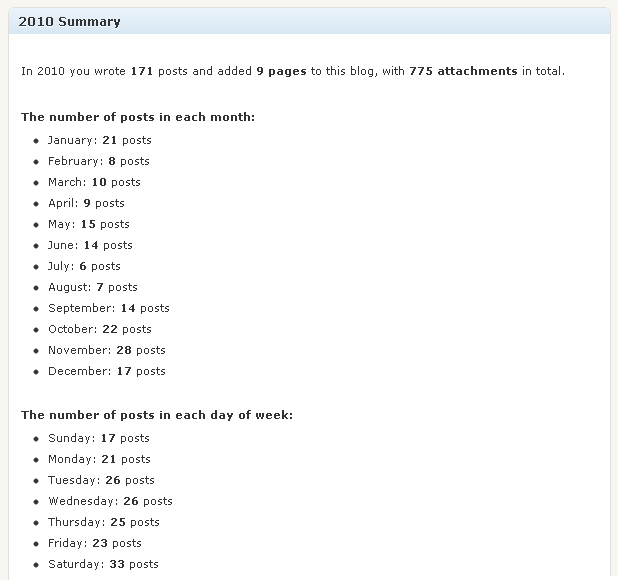
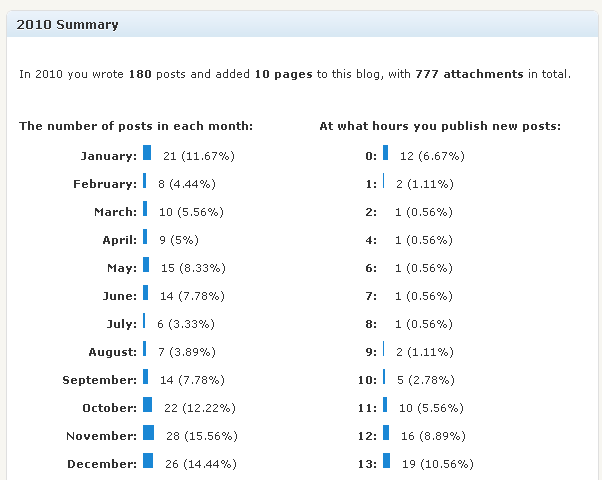
git-svn-id: https://plugins.svn.wordpress.org/2010-summary/trunk@324096 b8457f37-d9ea-0310-8a92-e5e31aec5664

diff --git a/2010summary.php b/2010summary.php
@@ -3,7 +3,7 @@
 Plugin Name: 2010 Summary
 Plugin URI: http://tomasz.topa.pl/2010summary
 Description: Get a brief summary of 2010 on your blog
-Version: 0.1
+Version: 0.2
 Author: Tomasz Topa
 Author URI: http://tomasz.topa.pl
 License: GPL2
@@ -42,6 +42,11 @@ function y2010summary() {
 	<style type="text/css">
 	.y2010summaryList{font-size:11px;margin-left:3em;list-style:disc;}
 	#y2010summaryDonate{width:200px;float:right;text-align:center;padding:30px 0;}
+	.y2010summaryTable{margin: 0 0 0 10px;}
+	.y2010summaryTable td{font-size:11px;line-height:2em;padding:0.25em;overflow:hidden;}
+	.y2010summaryCol1{float:left;width:300px;overflow:hidden;}
+	.y2010summaryCol2{float:left;width:260px;overflow:hidden;}
+	.y2010summaryClear{clear:both;}
 	</style>
 	
 	<h2>2010 Summary - whole year of blogging summarized</h2>
@@ -79,7 +84,11 @@ function y2010summary() {
 // Insert the post into the database
   $postid=wp_insert_post( $my_post );
    
-   echo '<div class="updated"><p><strong>A draft of the new post has been created</strong>. You can now <a href="'.get_bloginfo('wpurl').'/wp-admin/post.php?post='.$postid.'&action=edit">edit it</a> and then publish.</p></div>';
+   echo '<p>&nbsp;</p><div class="updated"><p><strong>A draft of the new post has been created</strong>. You can now <a href="'.get_bloginfo('wpurl').'/wp-admin/post.php?post='.$postid.'&action=edit">edit it</a> and then publish.</p></div>';
+   echo'<p>&nbsp;</p><p>&nbsp;</p><form name="y2010summary_generate" method="post" action="">
+	<input type="submit" name="generateStats" class="button-primary" value="Regenerate Summary" /> 
+	<input type="hidden" name="y2010summary_generate" value="TRUE" />
+	</form>';
    
   } else {
 	echo '<form name="y2010summary_generate" method="post" action="">
@@ -96,9 +105,9 @@ function y2010summary_generate(){
 	global $wpdb;
 	
 	
-	$y2010summary_noposts = $wpdb->get_row("SELECT count($wpdb->posts.ID) as howmany FROM $wpdb->posts WHERE year(post_date)=2010 and post_type='post'");
+	$y2010summary_noposts = $wpdb->get_row("SELECT count($wpdb->posts.ID) as howmany FROM $wpdb->posts WHERE year(post_date)=2010 and post_type='post' and post_status='publish'");
     
-	$y2010summary_nopages = $wpdb->get_row("SELECT count($wpdb->posts.ID) as howmany FROM $wpdb->posts WHERE year(post_date)=2010 and post_type='page'");
+	$y2010summary_nopages = $wpdb->get_row("SELECT count($wpdb->posts.ID) as howmany FROM $wpdb->posts WHERE year(post_date)=2010 and post_type='page' and post_status='publish'");
 	
 	$y2010summary_noattach = $wpdb->get_row("SELECT count($wpdb->posts.ID) as howmany FROM $wpdb->posts WHERE year(post_date)=2010 and $wpdb->posts.post_type='attachment'");	
 	
@@ -111,10 +120,12 @@ function y2010summary_generate(){
 	$y2010summary_nocommr = $wpdb->get_row("SELECT count($wpdb->comments.comment_ID) as howmany FROM $wpdb->comments WHERE year($wpdb->comments.comment_date)=2010 and comment_type!='trackback' and $wpdb->comments.user_id>0 and $wpdb->comments.comment_approved=1");	
 	
 	$y2010summary_months = $wpdb->get_results("SELECT count($wpdb->posts.ID) as howmany, month($wpdb->posts.post_date) as postmonth FROM $wpdb->posts WHERE year(post_date)=2010 and $wpdb->posts.post_type='post' group by postmonth order by postmonth asc");
-
-	$y2010summary_days = $wpdb->get_results("SELECT count($wpdb->posts.ID) as howmany, dayname($wpdb->posts.post_date) as postday, dayofweek($wpdb->posts.post_date) as postday2 FROM $wpdb->posts WHERE year(post_date)=2010 and $wpdb->posts.post_type='post' group by postday order by postday2 asc");	
 	
-	echo mysql_error();
+	$y2010summary_hours = $wpdb->get_results("SELECT count($wpdb->posts.ID) as howmany, hour($wpdb->posts.post_date) as posthour FROM $wpdb->posts WHERE year(post_date)=2010 and $wpdb->posts.post_type='post' group by posthour order by posthour asc");
+
+	
+	$y2010summary_days = $wpdb->get_results("SELECT count($wpdb->posts.ID) as howmany, dayname($wpdb->posts.post_date) as postday, dayofweek($wpdb->posts.post_date) as postday2 FROM $wpdb->posts WHERE year(post_date)=2010 and $wpdb->posts.post_type='post' group by postday order by postday2 asc");	
+
 	
 	$y2010summary_postsbyauthors = $wpdb->get_results("SELECT count($wpdb->posts.ID) as howmany, $wpdb->posts.post_author FROM $wpdb->posts WHERE year(post_date)=2010 and $wpdb->posts.post_type='post' group by $wpdb->posts.post_author order by howmany desc");
 	
@@ -122,17 +133,43 @@ function y2010summary_generate(){
 	
 	$y2010summary_commenters = $wpdb->get_results("SELECT count($wpdb->comments.comment_ID) as howmany,$wpdb->comments.comment_author FROM $wpdb->comments WHERE year($wpdb->comments.comment_date)=2010 and comment_type!='trackback' and $wpdb->comments.comment_approved=1 and user_id=0 group by $wpdb->comments.comment_author order by howmany desc limit 10");
 
+	$y2010summary_commentsday = $wpdb->get_results("SELECT count($wpdb->comments.comment_ID) as howmany, dayname($wpdb->comments.comment_date) as commentday, dayofweek($wpdb->comments.comment_date) as commentday2 FROM $wpdb->comments WHERE year($wpdb->comments.comment_date)=2010 and comment_type!='trackback' and $wpdb->comments.comment_approved=1 group by commentday order by commentday2 asc");
+	
+	$y2010summary_commentmonths = $wpdb->get_results("SELECT count($wpdb->comments.comment_ID) as howmany, month($wpdb->comments.comment_date) as commentmonth FROM $wpdb->comments WHERE year($wpdb->comments.comment_date)=2010 and comment_type!='trackback' and $wpdb->comments.comment_approved=1 group by commentmonth order by commentmonth asc");
+	
+	
+	$y2010summary_commenthours = $wpdb->get_results("SELECT count($wpdb->comments.comment_ID) as howmany, hour($wpdb->comments.comment_date) as commenthour FROM $wpdb->comments WHERE year($wpdb->comments.comment_date)=2010 and comment_type!='trackback' and $wpdb->comments.comment_approved=1 group by commenthour order by commenthour asc");
 	
     foreach ($y2010summary_commenters as $y2010summary_commenter) {
 		$y2010summary_commentdata.='<li>'.$y2010summary_commenter->comment_author.': <strong>'.$y2010summary_commenter->howmany.'</strong> comments</li>';
 	}
 	
 	foreach ($y2010summary_months as $y2010summary_month) {
-		$y2010summary_monthdata.='<li>'.date("F",mktime(0,0,0,$y2010summary_month->postmonth,1,2010)).': <strong>'.$y2010summary_month->howmany.'</strong> posts</li>';
+		$y2010summary_monthdata.='<tr><td style="width:110px;text-align:right;font-weight:bold;">'.date("F",mktime(0,0,0,$y2010summary_month->postmonth,1,2010)).':</td><td><div class="y2010summaryChartBar" style="width:'.round($y2010summary_month->howmany/$y2010summary_noposts->howmany*70).'px"></div> &nbsp; '.$y2010summary_month->howmany.' ('.round($y2010summary_month->howmany/$y2010summary_noposts->howmany*100,2).'%)</td></tr>';
+	}
+	
+	foreach ($y2010summary_commentmonths as $y2010summary_commentmonth) {
+		$y2010summary_commentmonthdata.='<tr><td style="width:110px;text-align:right;font-weight:bold;">'.date("F",mktime(0,0,0,$y2010summary_commentmonth->commentmonth,1,2010)).':</td><td><div class="y2010summaryChartBar" style="width:'.round($y2010summary_commentmonth->howmany/$y2010summary_nocomm->howmany*70).'px"></div> &nbsp; '.$y2010summary_commentmonth->howmany.' ('.round($y2010summary_commentmonth->howmany/$y2010summary_nocomm->howmany*100,2).'%)</td></tr>';
+	}
+	
+	foreach ($y2010summary_hours as $y2010summary_hour) {
+	$y2010summary_hourdata.='<tr><td style="width:50px;text-align:right;font-weight:bold;">'.$y2010summary_hour->posthour.':</td><td><div class="y2010summaryChartBar" style="width:'.round($y2010summary_hour->howmany/$y2010summary_noposts->howmany*70).'px"></div> &nbsp; '.$y2010summary_hour->howmany.' ('.round($y2010summary_hour->howmany/$y2010summary_noposts->howmany*100,2).'%)</td></tr>';
+	}
+	
+	foreach ($y2010summary_commenthours as $y2010summary_commenthour) {
+	$y2010summary_commenthourdata.='<tr><td style="width:50px;text-align:right;font-weight:bold;">'.$y2010summary_commenthour->commenthour.':</td><td><div class="y2010summaryChartBar" style="width:'.round($y2010summary_commenthour->howmany/$y2010summary_nocomm->howmany*70).'px"></div> &nbsp; '.$y2010summary_commenthour->howmany.' ('.round($y2010summary_commenthour->howmany/$y2010summary_nocomm->howmany*100,2).'%)</td></tr>';
 	}
 	
 	foreach ($y2010summary_days as $y2010summary_day) {
-		$y2010summary_daydata.='<li>'.$y2010summary_day->postday.': <strong>'.$y2010summary_day->howmany.'</strong> posts</li>';
+		
+		$y2010summary_daydata.='<tr><td style="width:110px;text-align:right;font-weight:bold;">'.$y2010summary_day->postday.':</td><td><div class="y2010summaryChartBar" style="width:'.round($y2010summary_day->howmany/$y2010summary_noposts->howmany*70).'px"></div> &nbsp; '.$y2010summary_day->howmany.' ('.round($y2010summary_day->howmany/$y2010summary_noposts->howmany*100,2).'%)</td></tr>';
+		
+	}
+	
+	foreach ($y2010summary_commentsday as $y2010summary_commentday) {
+		
+		$y2010summary_commentdaydata.='<tr><td style="width:110px;text-align:right;font-weight:bold;">'.$y2010summary_commentday->commentday.':</td><td><div class="y2010summaryChartBar" style="width:'.round($y2010summary_commentday->howmany/$y2010summary_nocomm->howmany*70).'px"></div> &nbsp; '.$y2010summary_commentday->howmany.' ('.round($y2010summary_commentday->howmany/$y2010summary_nocomm->howmany*100,2).'%)</td></tr>';
+		
 	}
 	
 	foreach ($y2010summary_topcom as $y2010summary_post) {
@@ -152,14 +189,24 @@ function y2010summary_generate(){
 
 	
 	$y2010summary_text.='
-	
+	<style type="text/css">.y2010summaryChartBar{height:15px;background:#1A87D5;display:inline-block;}</style>
 	<p>In 2010 you wrote <strong>'.$y2010summary_noposts->howmany.'</strong> posts and added <strong>'.$y2010summary_nopages->howmany.' pages</strong> to this blog, with <strong>'.$y2010summary_noattach->howmany.' attachments</strong> in total.</p>
 	<p>&nbsp;</p>
+	<div class="y2010summaryCol1">
 	<p><strong>The number of posts in each month:</strong></p>
-	<ul class="y2010summaryList">'.$y2010summary_monthdata.'</ul>
+	<table class="y2010summaryTable">'.$y2010summary_monthdata.'</table>
+	
 	<p>&nbsp;</p>
+	
 	<p><strong>The number of posts in each day of week:</strong></p>
-	<ul class="y2010summaryList">'.$y2010summary_daydata.'</ul>
+	<table class="y2010summaryTable">'.$y2010summary_daydata.'</table>
+	
+	</div>
+	<div class="y2010summaryCol2">
+	<p><strong>At what hours you publish new posts:</strong></p>
+	<table class="y2010summaryTable">'.$y2010summary_hourdata.'</table>
+	</div>
+	<div class="y2010summaryClear"></div>
 	<p>&nbsp;</p>
 	<p>In 2010 your posts were commented <strong>'.$y2010summary_nocomm->howmany.'</strong> times, from which <strong>'.$y2010summary_nocommr->howmany.'</strong> comments ('.round($y2010summary_nocommr->howmany/$y2010summary_nocomm->howmany*100,2).'%) were written by registered users/authors.</p>
 	<p>&nbsp;</p>
@@ -169,11 +216,22 @@ function y2010summary_generate(){
 	<p><strong>TOP 10 most commented posts in 2010:</strong></p>
 	<ul class="y2010summaryList">'.$y2010summary_postdata.'</ul>
 	<p>&nbsp;</p>
-	
+	<div class="y2010summaryCol1">
+	<p><strong>The number of comments in each month:</strong></p>
+	<table class="y2010summaryTable">'.$y2010summary_commentmonthdata.'</table>
+	<p>&nbsp;</p>
+	<p><strong>On what days people comment:</strong></p>
+	<table class="y2010summaryTable">'.$y2010summary_commentdaydata.'</table>
+	</div>
+	<div class="y2010summaryCol2">
+	<p><strong>At what hours people comment:</strong></p>
+	<table class="y2010summaryTable">'.$y2010summary_commenthourdata.'</table>
+	</div>
+	<div class="y2010summaryClear"></div>
 	';
 	
 	if($y2010summary_noauthors->howmany>1){
-		$y2010summary_text.='<p><strong>This blog has many authors.</strong> Below you can find the number of posts each one wrote:</p>
+		$y2010summary_text.='<p><strong>This blog has many authors.</strong> Here is the number of posts each one wrote:</p>
 		<ul class="y2010summaryList">'.$y2010summary_authordata.'</ul>
 		<p>&nbsp;</p>
 		<p>And the number of comments each one wrote:</p>
